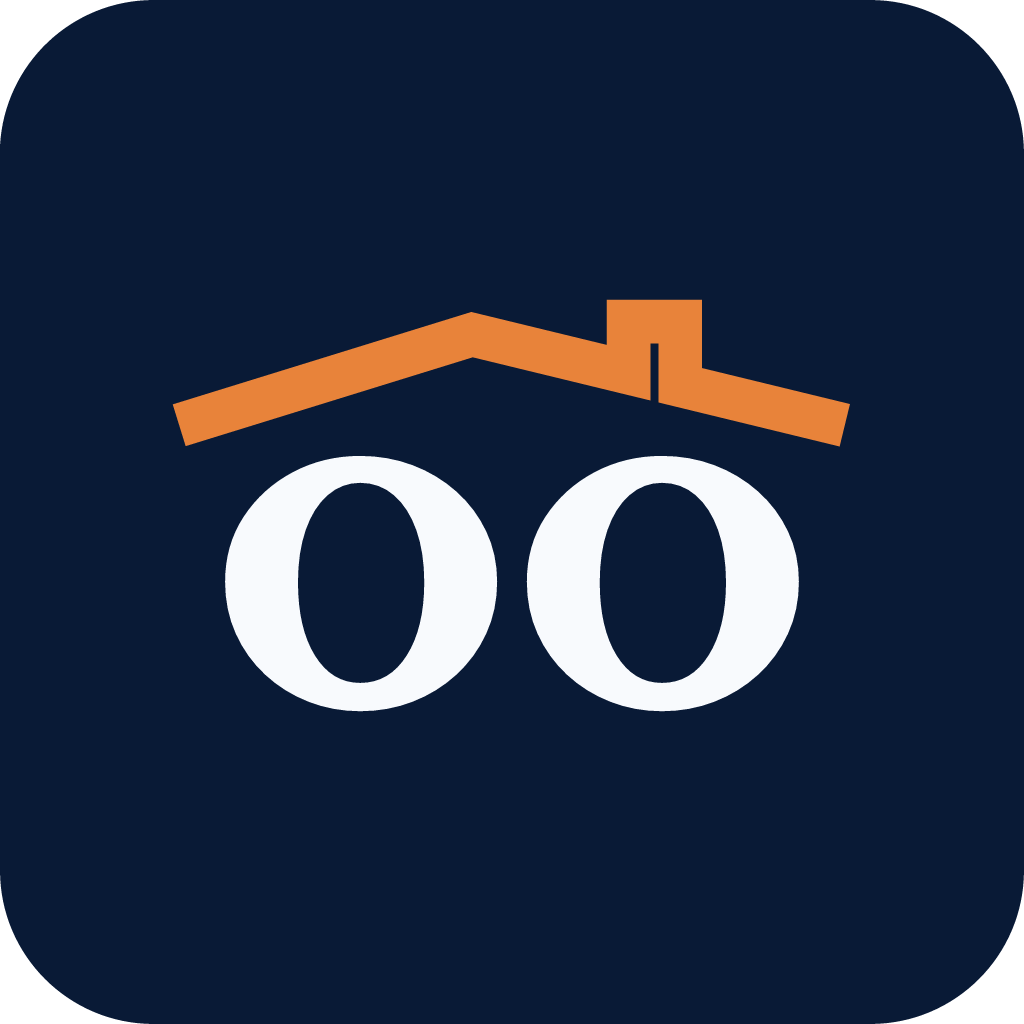
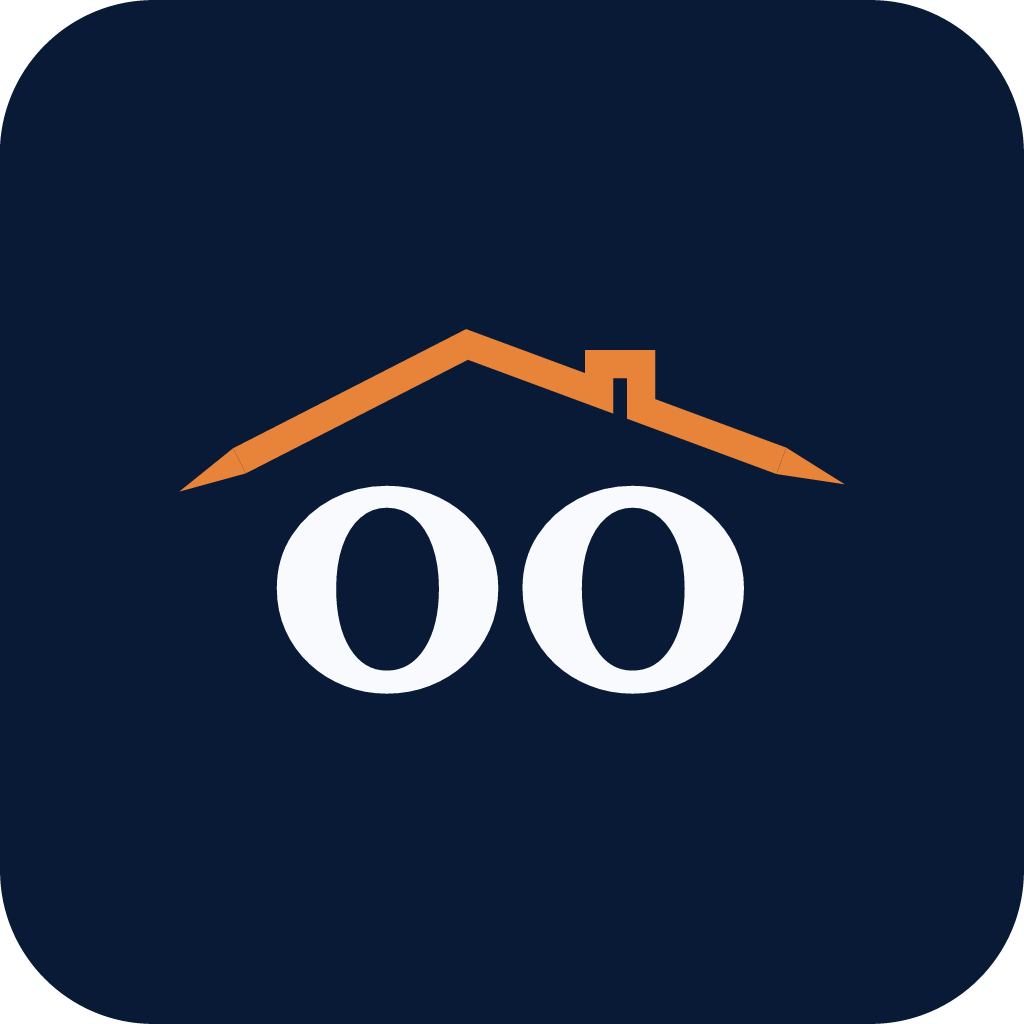
brand: steepen roofline pitch, thinner tapered stroke
Refines the master roofline path's proportions: steeper ~27deg rise (was
~20deg), taller peak at 68% of o-height (was ~48%), thinner stroke at
47.5% of stem weight (was 60%), chimney sized off peak height instead of
o-height. Eave ends now taper to a genuine point via small filled caps
extending the stroke's butt-cap, since plain SVG strokes can't taper
natively. Regenerated every dependent asset from the single master path.

Changed region(s): [[0.1562, 0.2812, 0.8438, 0.7188], [0.5, 0.5625, 0.5312, 0.625]]

diff --git a/frontend/src/pages/Brand.tsx b/frontend/src/pages/Brand.tsx
@@ -126,7 +126,7 @@ export default function Brand() {
           <section className="border-t border-slate-300 pt-8">
             <h2 className="text-xl font-semibold mb-1" style={{ color: NAVY }}>Wordmark</h2>
             <p className="text-slate-500 mb-6 max-w-2xl">
-              Libre Baskerville Bold + IBM Plex Sans Medium tagline, paths only. Roofline is a single stroke path — shallow rise, off-center peak, chimney notch on the descent — reused identically in the monogram below.
+              Libre Baskerville Bold + IBM Plex Sans Medium tagline, paths only. Roofline is a single stroke path — steep ~27° rise to an off-center peak, chimney notch on the shallower descent, tapered pen-stroke tips at both eaves — reused identically in the monogram below.
             </p>
             <div className="flex flex-wrap gap-10">
               <Swatch bg={PAPER} src="/brand/logo-full.svg" size={140} sizeLabel="full size — light bg" />

diff --git a/scripts/brand-logo/build_logo.py b/scripts/brand-logo/build_logo.py
@@ -164,16 +164,24 @@ def bbox_of(pts):
 
 
 def pitched_roofline_path(
-    left, right, top_of_o, o_height,
-    eave_ratio=0.08, gap_ratio=0.12, peak_rise_ratio=0.475, peak_offset_ratio=0.06,
-    chimney_t=0.42, chimney_w_ratio=0.09, chimney_h_ratio=0.20, include_chimney=True,
+    left, right, top_of_o, o_height, stroke_weight,
+    eave_ratio=0.08, gap_ratio=0.12, peak_rise_ratio=0.68, peak_offset_ratio=0.08,
+    chimney_t=0.42, chimney_w_ratio=0.09, chimney_h_of_peak_ratio=0.25,
+    include_chimney=True, taper_len_mult=2.4,
 ):
-    """Single source of truth for the roofline: an OPEN (stroke-only) path.
-    Shallow rise from the left eave to an off-center peak (slightly left of the oo
-    gap), then descends to the right eave; a small rectangular chimney notch
-    (up/across/down) sits on the descending slope unless include_chimney=False
-    (used for the 16px favicon cut, where the notch doesn't survive).
-    Returns (d, span_left, span_right, peak_y, base_y).
+    """Single source of truth for the roofline.
+
+    A steep, confident rise from the left eave to an off-center peak (slightly
+    left of the oo gap, ~27deg), a shallower descent to the right eave with a
+    small rectangular chimney notch (up/across/down, sized off peak height)
+    unless include_chimney=False (16px favicon cut, where the notch doesn't
+    survive). The main line is a plain stroke (fill:none) — plain SVG strokes
+    can't taper, so the two eave ends get small solid-filled triangular caps
+    in the same color that extend the stroke's flat butt-cap into a fine
+    point, faking a brush/pen taper without any gradient or opacity trick.
+
+    Returns a dict: main_d, left_taper_d, right_taper_d, span_left, span_right,
+    visual_left, visual_right (span extended by the taper tips), peak_y, base_y.
     """
     span = right - left
     eave = eave_ratio * span
@@ -182,6 +190,7 @@ def pitched_roofline_path(
 
     base_y = top_of_o + gap_ratio * o_height
     peak_y = top_of_o + peak_rise_ratio * o_height
+    peak_rise = peak_y - base_y
     center_x = (span_left + span_right) / 2.0
     peak_x = center_x - peak_offset_ratio * (span_right - span_left)
 
@@ -194,7 +203,7 @@ def pitched_roofline_path(
         ax = peak_pt[0] + (right_pt[0] - peak_pt[0]) * t
         ay = peak_pt[1] + (right_pt[1] - peak_pt[1]) * t
         chimney_w = chimney_w_ratio * span
-        chimney_h = chimney_h_ratio * o_height
+        chimney_h = chimney_h_of_peak_ratio * peak_rise
         bx, by = ax, ay + chimney_h
         cx2, cy2 = bx + chimney_w, by
         t2 = (cx2 - peak_pt[0]) / (right_pt[0] - peak_pt[0])
@@ -204,8 +213,35 @@ def pitched_roofline_path(
     else:
         pts = [left_pt, peak_pt, right_pt]
 
-    d = f"M{pts[0][0]:.2f} {pts[0][1]:.2f} " + " ".join(f"L{p[0]:.2f} {p[1]:.2f}" for p in pts[1:])
-    return d, span_left, span_right, peak_y, base_y
+    main_d = f"M{pts[0][0]:.2f} {pts[0][1]:.2f} " + " ".join(f"L{p[0]:.2f} {p[1]:.2f}" for p in pts[1:])
+
+    def taper_triangle(p_end, p_prev):
+        dx, dy = p_end[0] - p_prev[0], p_end[1] - p_prev[1]
+        length = math.hypot(dx, dy)
+        ux, uy = dx / length, dy / length
+        nx, ny = -uy, ux
+        hw = stroke_weight / 2.0
+        taper_len = taper_len_mult * stroke_weight
+        tip = (p_end[0] + ux * taper_len, p_end[1] + uy * taper_len)
+        b1 = (p_end[0] + nx * hw, p_end[1] + ny * hw)
+        b2 = (p_end[0] - nx * hw, p_end[1] - ny * hw)
+        d = f"M{b1[0]:.2f} {b1[1]:.2f} L{tip[0]:.2f} {tip[1]:.2f} L{b2[0]:.2f} {b2[1]:.2f} Z"
+        return d, tip
+
+    left_taper_d, left_tip = taper_triangle(pts[0], pts[1])
+    right_taper_d, right_tip = taper_triangle(pts[-1], pts[-2])
+
+    return {
+        "main_d": main_d,
+        "left_taper_d": left_taper_d,
+        "right_taper_d": right_taper_d,
+        "span_left": span_left,
+        "span_right": span_right,
+        "visual_left": min(span_left, left_tip[0]),
+        "visual_right": max(span_right, right_tip[0]),
+        "peak_y": peak_y,
+        "base_y": base_y,
+    }
 
 
 def get_svg_path(ttf, gname):

diff --git a/scripts/brand-logo/build_wordmark.py b/scripts/brand-logo/build_wordmark.py
@@ -14,7 +14,7 @@ TAG_TRACK_UNITS = 120
 TAG_GAP_BELOW_DESCENDER = 130
 PAD = 60
 
-STROKE_WEIGHT = 0.6 * o_wall_thickness(bask)
+STROKE_WEIGHT = 0.475 * o_wall_thickness(bask)
 
 
 def word_positions():
@@ -45,8 +45,7 @@ def roofline_for_oo(o1_origin, o2_origin):
     right = o2_origin + o_ink[2]
     top_of_o = o_ink[3]
     o_height = o_ink[3] - o_ink[1]
-    d, span_left, span_right, peak_y, base_y = pitched_roofline_path(left, right, top_of_o, o_height)
-    return d, span_left, span_right, peak_y, base_y
+    return pitched_roofline_path(left, right, top_of_o, o_height, STROKE_WEIGHT)
 
 
 def tagline_paths_and_metrics():
@@ -91,20 +90,20 @@ def build(with_tagline, dark):
     o2_origin = positions[6]["x"]
 
     body_xml = normal_glyph_paths(positions, skip_indices=set())
-    roof_d, span_left, span_right, peak_y, base_y = roofline_for_oo(o1_origin, o2_origin)
+    roof = roofline_for_oo(o1_origin, o2_origin)
 
     s_ink = glyph_ink_bbox(bask, "S")
     word_left_ink = positions[0]["x"] + s_ink[0]
     last_o_right = positions[6]["x"] + glyph_ink_bbox(bask, "o")[2]
     word_bottom_desc = -260.0
-    word_top = max(780.0, peak_y + STROKE_WEIGHT / 2.0)
+    word_top = max(780.0, roof["peak_y"] + STROKE_WEIGHT / 2.0)
 
     word_color = PAPER if dark else NAVY
     tag_color = PAPER if dark else ACCENT
     tag_opacity = "0.7" if dark else "1"
 
-    content_left = min(word_left_ink, span_left)
-    content_right = max(last_o_right, span_right)
+    content_left = min(word_left_ink, roof["visual_left"])
+    content_right = max(last_o_right, roof["visual_right"])
 
     if with_tagline:
         tag_xml, tag_left_ink, tag_right_ink, cap_top_local = tagline_paths_and_metrics()
@@ -134,7 +133,11 @@ def build(with_tagline, dark):
 <g fill="{word_color}">
 {chr(10).join(body_xml)}
 </g>
-<path d="{roof_d}" fill="none" stroke="{BRAND_ORANGE}" stroke-width="{STROKE_WEIGHT:.2f}" stroke-linecap="butt" stroke-linejoin="miter"/>
+<g fill="{BRAND_ORANGE}">
+<path d="{roof['main_d']}" fill="none" stroke="{BRAND_ORANGE}" stroke-width="{STROKE_WEIGHT:.2f}" stroke-linecap="butt" stroke-linejoin="miter"/>
+<path d="{roof['left_taper_d']}"/>
+<path d="{roof['right_taper_d']}"/>
+</g>
 {tag_block}</g>
 </svg>
 '''

diff --git a/scripts/brand-logo/build_monogram.py b/scripts/brand-logo/build_monogram.py
@@ -12,7 +12,7 @@ SIDE = 512.0
 CORNER_R = 0.15 * SIDE
 FILL_WIDTH_RATIO = 0.65
 
-STROKE_WEIGHT = 0.6 * o_wall_thickness(bask)
+STROKE_WEIGHT = 0.475 * o_wall_thickness(bask)
 STROKE_WEIGHT_16 = STROKE_WEIGHT * 1.35  # small-size rule: thicken slightly when the chimney is dropped
 
 
@@ -34,16 +34,16 @@ def build(include_chimney, stroke_weight, out_name):
     bottom_of_o = o_ink[1]
     o_height = o_ink[3] - o_ink[1]
 
-    roof_d, span_left, span_right, peak_y, base_y = pitched_roofline_path(
-        left, right, top_of_o, o_height, include_chimney=include_chimney
+    roof = pitched_roofline_path(
+        left, right, top_of_o, o_height, stroke_weight, include_chimney=include_chimney
     )
 
     o1_xml = f'<path d="{d_o}" transform="translate({o1_origin:.2f},0)"/>'
     o2_xml = f'<path d="{d_o}" transform="translate({o2_origin:.2f},0)"/>'
 
-    content_left = span_left
-    content_right = span_right
-    content_top = peak_y + stroke_weight / 2.0
+    content_left = roof["visual_left"]
+    content_right = roof["visual_right"]
+    content_top = roof["peak_y"] + stroke_weight / 2.0
     content_bottom = bottom_of_o
     content_w = content_right - content_left
 
@@ -63,7 +63,11 @@ def build(include_chimney, stroke_weight, out_name):
 {o1_xml}
 {o2_xml}
 </g>
-<path d="{roof_d}" fill="none" stroke="{BRAND_ORANGE}" stroke-width="{stroke_weight:.2f}" stroke-linecap="butt" stroke-linejoin="miter"/>
+<g fill="{BRAND_ORANGE}">
+<path d="{roof['main_d']}" fill="none" stroke="{BRAND_ORANGE}" stroke-width="{stroke_weight:.2f}" stroke-linecap="butt" stroke-linejoin="miter"/>
+<path d="{roof['left_taper_d']}"/>
+<path d="{roof['right_taper_d']}"/>
+</g>
 </g>
 </svg>
 '''

diff --git a/scripts/brand-logo/export_assets.py b/scripts/brand-logo/export_assets.py
@@ -39,8 +39,16 @@ render(f"{BRAND_DIR}\\logo-full.svg", f"{BRAND_DIR}\\logo-full-1024.png", w=1024
 render(f"{BRAND_DIR}\\monogram.svg", f"{BRAND_DIR}\\monogram-512.png", w=512, h=512)
 render(f"{BRAND_DIR}\\monogram.svg", f"{BRAND_DIR}\\monogram-1024.png", w=1024, h=1024)
 
-# --- email lockup: full lockup on paper/white background, 400px wide ---
+# --- email lockup: full lockup on paper/white background, 400px wide, flattened to plain RGB ---
 render(f"{BRAND_DIR}\\logo-full.svg", f"{BRAND_DIR}\\logo-email.png", w=400, background="#F8FAFD")
+
+from PIL import Image
+_email_path = f"{BRAND_DIR}\\logo-email.png"
+_im = Image.open(_email_path)
+_rgb = Image.new("RGB", _im.size, (248, 250, 253))
+_rgb.paste(_im, mask=_im.split()[-1])
+_rgb.save(_email_path)
+print("flattened", _email_path, "to RGB")
 
 
 # --- pack favicon.ico (16/32/48) ---
